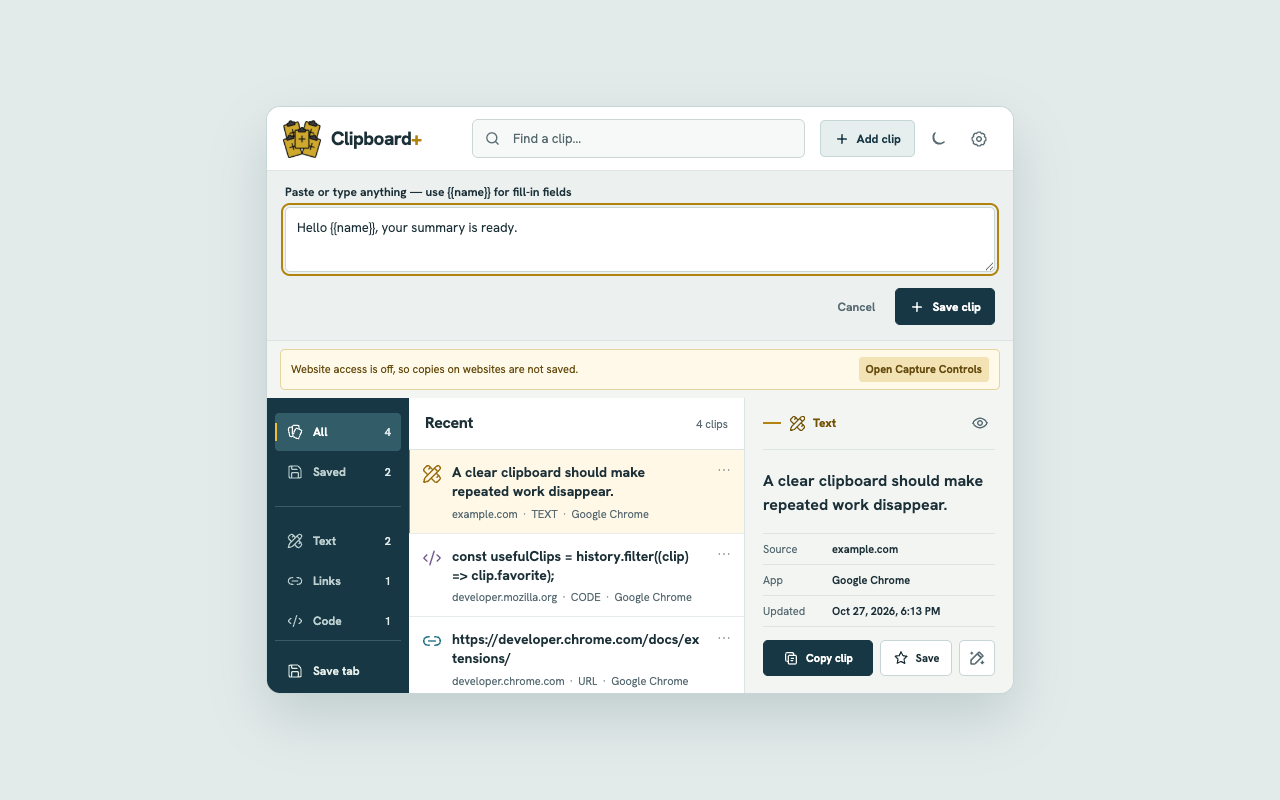
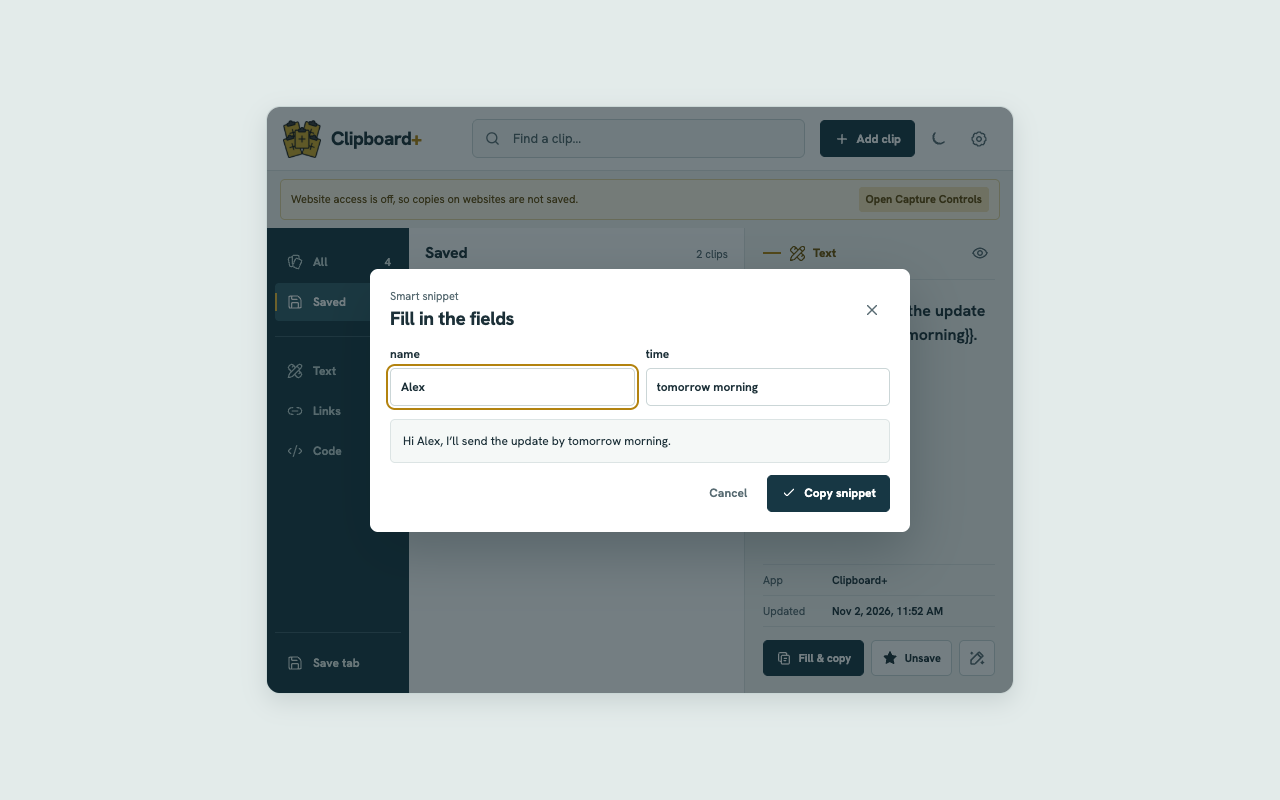
docs: capture accurate Chrome Web Store screenshots

diff --git a/README.md b/README.md
@@ -70,7 +70,7 @@ Upgrading from 1.5.0 or 1.5.1 resets the old build-specific Accessibility entry 
 - Without the companion, Chrome internal pages, the Chrome Web Store, browser UI, and desktop applications cannot be captured. The companion sees the resulting system clipboard instead and covers most of those gaps.
 - Incognito access is disabled in the manifest.
 
-The public [privacy policy](https://tonys-coding.github.io/ClipboardPlus/privacy.html), [support page](https://tonys-coding.github.io/ClipboardPlus/support.html), and [data-deletion instructions](https://tonys-coding.github.io/ClipboardPlus/data-deletion.html) are maintained from `docs/`. `npm run assets:store` refreshes the five store screenshots, two promo tiles, and Workspace and Capture Controls previews used by the homepage. The small tile is cropped from the supplied high-resolution JPEG; the marquee uses the supplied real popup screenshot, bundled font, and official logo. Both render at the Web Store's exact 440×280 and 1400×560 PNG sizes. Their sources are kept in `store-assets/source/`. `npm run test:site` checks the five public pages at desktop and mobile sizes.
+The public [privacy policy](https://tonys-coding.github.io/ClipboardPlus/privacy.html), [support page](https://tonys-coding.github.io/ClipboardPlus/support.html), and [data-deletion instructions](https://tonys-coding.github.io/ClipboardPlus/data-deletion.html) are maintained from `docs/`. `npm run assets:store` captures five 1280×800 store screenshots from the running store build in Chromium, with representative demo clips rather than private user data or mock UI. It also refreshes the two promo tiles and Workspace and Capture Controls previews used by the homepage. The small tile is cropped from the supplied high-resolution JPEG; the marquee uses the supplied real popup screenshot, bundled font, and official logo. Both render at the Web Store's exact 440×280 and 1400×560 PNG sizes. Their sources are kept in `store-assets/source/`. `npm run test:site` checks the five public pages at desktop and mobile sizes.
 
 ## Using the extension
 

diff --git a/store-assets/README.md b/store-assets/README.md
@@ -1,0 +1,11 @@
+# Chrome Web Store screenshots
+
+These five 1280×800 PNGs are captured by `npm run assets:store` from the actual Clipboard+ store build running in Chromium. The script seeds representative local demo clips in a temporary browser profile; it does not use anyone's private clipboard history or draw substitute interface components.
+
+1. `screenshot-1-history.png` — Recent history, category navigation, clip details, and the honest website-access-off state.
+2. `screenshot-2-search.png` — A successful content search returning a manual note.
+3. `screenshot-3-code-filter.png` — The Code view displaying a real function from Clipboard+'s own `src/lib/clips.ts`.
+4. `screenshot-4-smart-snippet.png` — A saved snippet with its actual fill-in dialog and preview.
+5. `screenshot-5-privacy-controls.png` — The first-run Capture Controls disclosure and optional website-capture choice.
+
+The first text sample appears on Clipboard+'s own public homepage; the code sample appears in the linked GitHub source. The other clips are clearly representative examples. Website capture remains off in this temporary profile, so the screenshots do not claim permission was granted or that content was automatically captured.

diff --git a/CHANGELOG.md b/CHANGELOG.md
@@ -7,6 +7,7 @@ Clipboard+'s Git history was reconstructed from local development milestones aft
 - Replace the small and marquee promo tiles with the owner's high-resolution artwork, precisely fitted to the Chrome Web Store's 440×280 and 1400×560 requirements.
 - Keep the supplied source JPEGs and update the asset generator so future refreshes preserve this artwork.
 - Replace the marquee's stylized mock interface with the owner's actual Clipboard+ popup screenshot, without cropping its controls or clip rows.
+- Recapture all five 1280×800 listing screenshots from the running store build with representative demo clips, successful search, actual Code filtering, a filled smart snippet, and the real first-run capture disclosure.
 
 ## 1.8.5
 
